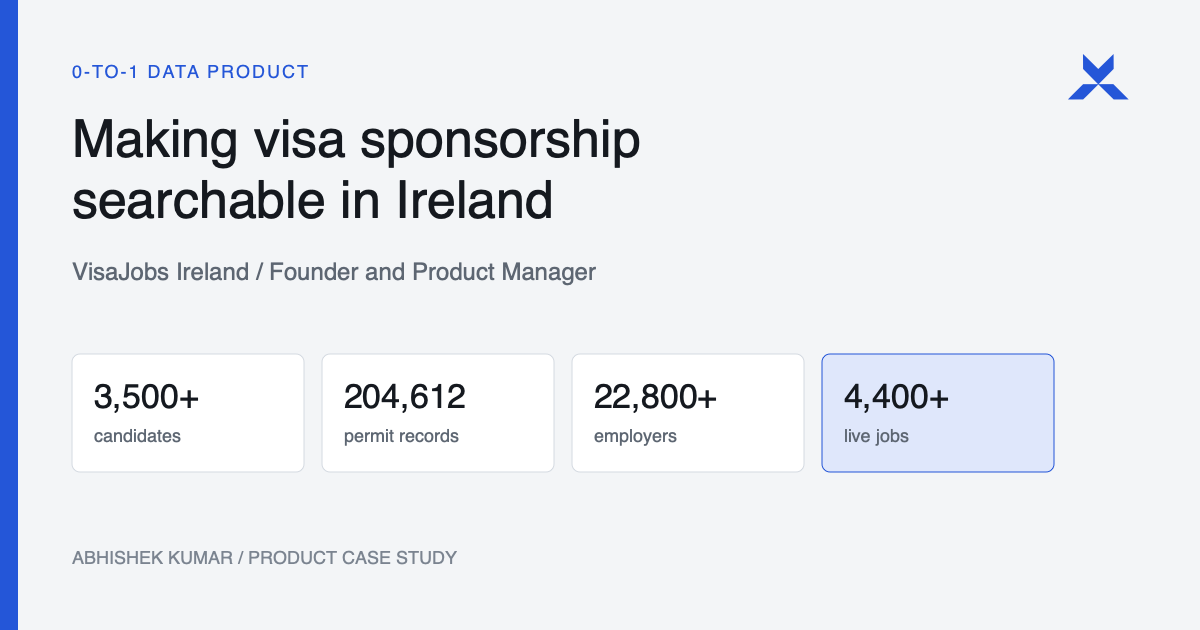
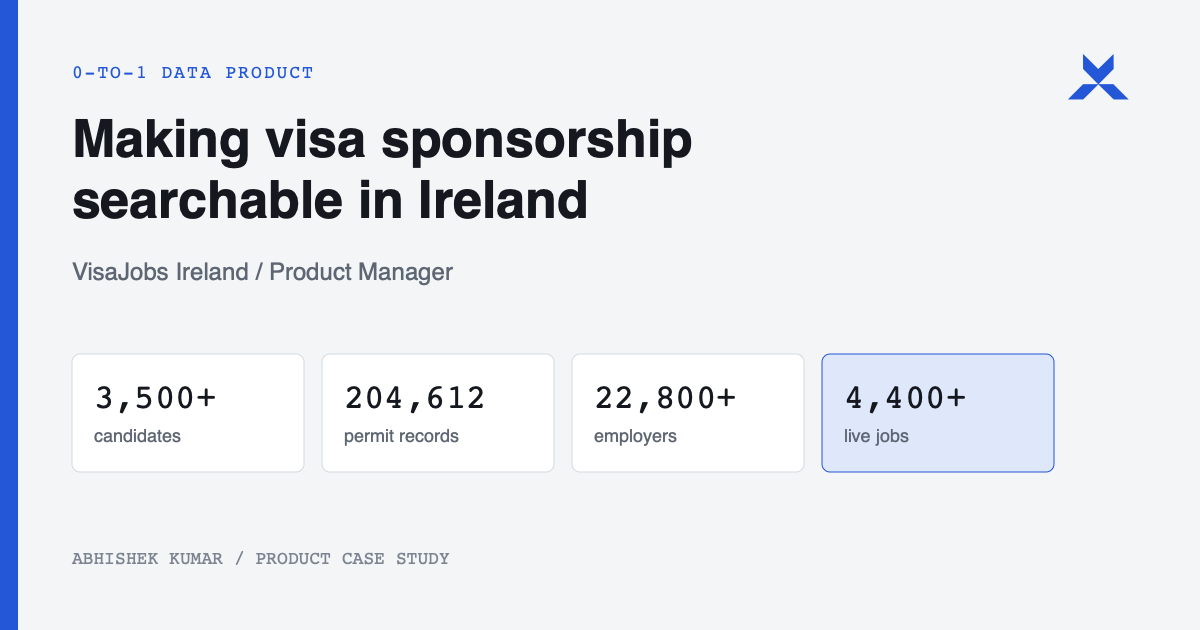
content: position VisaJobs experience as Product Manager

diff --git a/src/lib/data/portfolio.ts b/src/lib/data/portfolio.ts
@@ -50,7 +50,7 @@ export const visaJobsPublicMetrics: CaseStudyMetric[] = [
 		value: '3,500+',
 		label: 'candidates',
 		verifiedAt: 'September 2026',
-		sourceNote: 'Founder-confirmed public product figure'
+		sourceNote: 'Public product figure confirmed by Abhishek'
 	},
 	{
 		value: '204,612',
@@ -79,12 +79,12 @@ export const visaJobsPublicMetrics: CaseStudyMetric[] = [
 	{
 		value: '51,000+',
 		label: 'launch-post views',
-		sourceNote: 'Founder-confirmed launch distribution figure'
+		sourceNote: 'Public launch distribution figure confirmed by Abhishek'
 	},
 	{
 		value: '1,400+',
 		label: 'launch-post click-throughs',
-		sourceNote: 'Founder-confirmed launch distribution figure'
+		sourceNote: 'Public launch distribution figure confirmed by Abhishek'
 	}
 ];
 
@@ -97,7 +97,7 @@ export const caseStudies: CaseStudy[] = [
 		title: 'Making visa sponsorship searchable in Ireland',
 		description:
 			'A 0-to-1 product that turns fragmented government permit records and live jobs into practical decisions for candidates and employers.',
-		role: 'Founder and Product Manager',
+		role: 'Product Manager',
 		period: '2026 to present',
 		domains: ['0-to-1 product', 'Data product', 'Two-sided marketplace'],
 		image: '/images/casestudies/visajobs-product.webp',
@@ -112,7 +112,7 @@ export const caseStudies: CaseStudy[] = [
 		imageCaption:
 			'Real VisaJobs product capture showing the search experience built around public permit evidence.',
 		context: {
-			team: 'Founder-led product',
+			team: 'Product-led, cross-functional build',
 			stage: '0-to-1, live product',
 			customer: 'Candidates and employers',
 			ownership: 'Product, data, discovery, delivery',
@@ -278,7 +278,7 @@ export const capabilities: Capability[] = [
 export const experience: Experience[] = [
 	{
 		company: 'VisaJobs Ireland',
-		role: 'Founder and Product Manager',
+		role: 'Product Manager',
 		period: 'January 2026 to present',
 		location: 'Dublin, Ireland',
 		summary:

diff --git a/src/routes/work/visajobs/+page.svelte b/src/routes/work/visajobs/+page.svelte
@@ -160,10 +160,10 @@
 
 	<CaseStudySection title="I owned the product from signal to release." tone="soft">
 		<p>
-			As Founder and Product Manager, I framed the problem, shaped the roadmap, defined the data
-			model, designed the core journeys, and coordinated implementation and launch. Product
-			decisions covered candidate discovery, employer verification, job publishing, trust language,
-			and the boundary between helpful guidance and legal advice.
+			As Product Manager, I framed the problem, shaped the roadmap, defined the data model, designed
+			the core journeys, and coordinated implementation and launch. Product decisions covered
+			candidate discovery, employer verification, job publishing, trust language, and the boundary
+			between helpful guidance and legal advice.
 		</p>
 		<h3>Delivery and collaboration</h3>
 		<ul>
